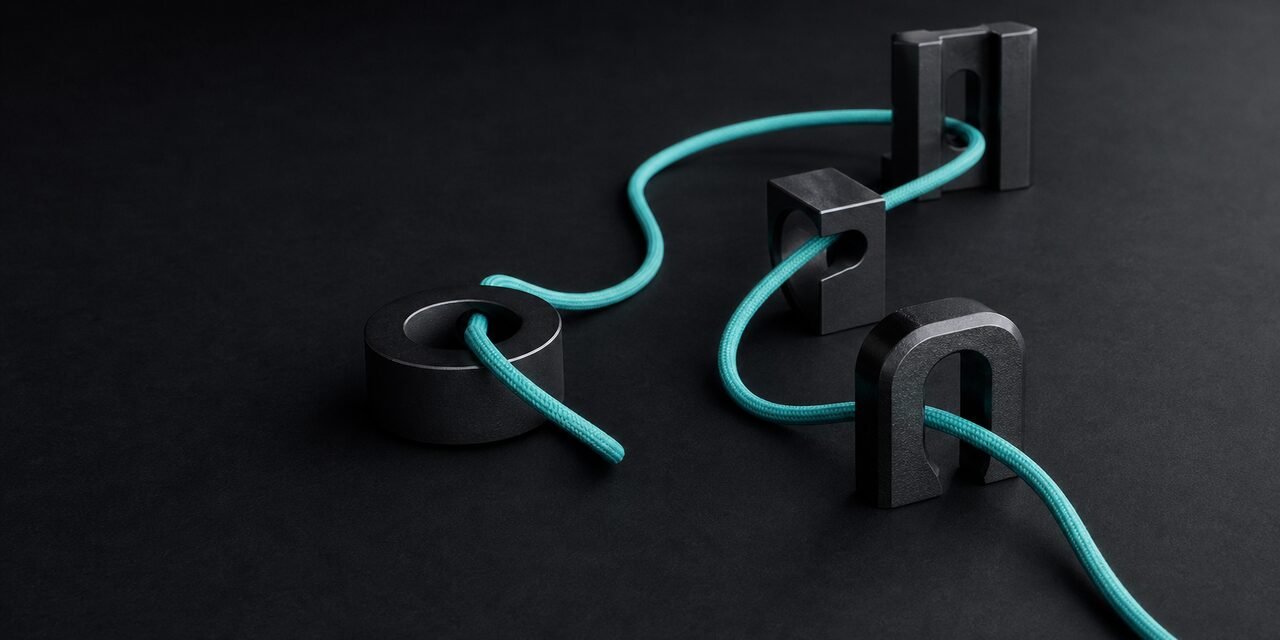
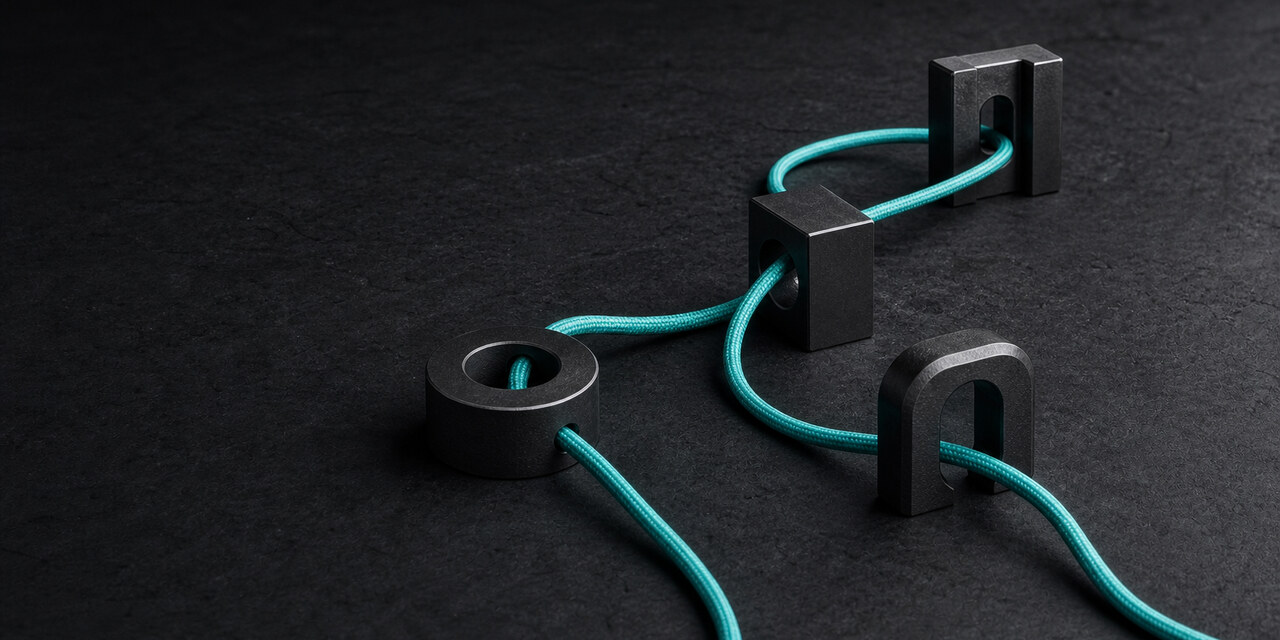
docs: refine grill-loop public surface (#1)

diff --git a/README.md b/README.md
@@ -1,9 +1,7 @@
-<p align="right">
-  <a href="./README.zh-CN.md"><img src="https://img.shields.io/badge/README-中文说明-5eead4?style=flat-square" alt="阅读中文说明"></a>
-</p>
+<p align="right"><a href="./README.zh-CN.md">中文说明</a></p>
 
 <p align="center">
-  <img src="./assets/grill-loop-social-preview.jpg" alt="A seafoam cord reroutes through independent graphite gates" width="100%">
+  <img src="./assets/grill-loop-hero.webp" alt="A seafoam cord finds its route through four independent graphite gates" width="100%">
 </p>
 
 <h1 align="center">grill-loop</h1>
@@ -11,23 +9,53 @@
 <p align="center"><strong>The loop follows the work.</strong></p>
 
 <p align="center">
-  An explicit Agent Skill that chooses the smallest useful capability,<br>
-  follows its own contract, then reassesses from what changed.
+  One explicit router. One useful capability at a time.<br>
+  Follow its contract, then choose again from what changed.
 </p>
 
 <p align="center">
-  <a href="#quickstart"><img src="https://img.shields.io/badge/skills.sh-nxxxsooo%2Fgrill--loop-111820" alt="Install with skills.sh"></a>
-  <a href="./LICENSE"><img src="https://img.shields.io/badge/license-MIT-5eead4" alt="MIT License"></a>
-  <a href="./README.zh-CN.md"><img src="https://img.shields.io/badge/README-中文说明-5eead4" alt="阅读中文说明"></a>
+  <a href="#install"><img src="https://img.shields.io/badge/install-skills.sh-111820?style=flat-square" alt="Install with skills.sh"></a>
+  <a href="https://github.com/nxxxsooo/grill-loop/releases"><img src="https://img.shields.io/github/v/release/nxxxsooo/grill-loop?style=flat-square&color=5eead4" alt="Latest release"></a>
+  <a href="./LICENSE"><img src="https://img.shields.io/badge/license-MIT-5eead4?style=flat-square" alt="MIT License"></a>
 </p>
 
-Real work rarely follows one perfect methodology. A vague idea may need one focused interview, a drafted plan may need adversarial review, a durable change may belong in OpenSpec, and a frontend artifact may need a taste pass.
+## Install
 
-**grill-loop connects those capabilities without turning them into another framework.** It looks at the current goal and artifacts, invokes only the smallest useful capability, carries forward the relevant context, and chooses again.
+```bash
+npx skills@latest add nxxxsooo/grill-loop
+```
 
-## The entire skill
+Then continue any task with:
 
-grill-loop is four paragraphs. This is the complete [`SKILL.md`](./SKILL.md) body you install:
+> Use $grill-loop to continue this task.
+
+grill-loop runs only when you name it. It does not auto-invoke or force every connected capability to run.
+
+## Why it exists
+
+Real work does not follow one fixed methodology. A missing product choice may need `grilling`; a formed plan may need `deep-grill`; a durable change may belong in OpenSpec; a frontend may need a taste pass.
+
+grill-loop owns only the routing decision. It selects the smallest useful next capability, follows that capability's own contract, carries forward the relevant context, then reassesses.
+
+## Route by where the answer lives
+
+| The current gap | Useful next move |
+|---|---|
+| Intent, priorities, risk tolerance, or taste exist only with the user | `grilling` |
+| A plan or decision needs autonomous investigation and adversarial review | `deep-grill` |
+| Work should enter durable exploration, specification, implementation, or archival | OpenSpec |
+| A frontend or brand surface needs visual direction or critique | `design-taste-frontend` |
+| Another specialist better fits the current move | That Skill or tool |
+
+These are options, not stages. Skip, repeat, reorder, return, or stop as the work changes.
+
+<p align="center">
+  <img src="./assets/grill-loop-detail.webp" alt="A seafoam braided cord passing through a precision-machined graphite gate" width="440">
+</p>
+
+## The complete contract
+
+The installed Skill is only four paragraphs. This excerpt is kept in exact sync with [`SKILL.md`](./SKILL.md):
 
 <!-- grill-loop-skill-body:start -->
 > # Grill Loop
@@ -41,85 +69,25 @@ grill-loop is four paragraphs. This is the complete [`SKILL.md`](./SKILL.md) bod
 > Preserve every capability's own scope, authority, and safety boundaries. Add no custom gates, hooks, background processes, or state files. Stop when the user's goal is met, a meaningful next move requires their input or authority, or further looping has diminishing returns.
 <!-- grill-loop-skill-body:end -->
 
-What each paragraph buys you:
-
-- **Pick one useful move.** Start from the current goal and artifact, not a fixed lifecycle.
-- **Route by where the answer lives.** User intent, autonomous review, durable specification, visual taste, or another specialist each keeps its own owner.
-- **Move freely.** Skip, repeat, reorder, or return without inventing a shared schema.
-- **Keep the loop light.** Preserve authority boundaries and stop when the work is done or no longer improving.
-
-## Quickstart
-
-1. Install the Skill:
-
-   ```bash
-   npx skills@latest add nxxxsooo/grill-loop
-   ```
-
-2. Continue an existing task or start with an idea.
-
-3. Say:
-
-   > Use $grill-loop to continue this task.
-
-> [!TIP]
-> grill-loop is explicit-only. Naming it selects the router; it does not force every capability to run.
-
-## Options, not stages
-
-<p align="center">
-  <img src="./assets/grill-loop-flow-square.png" alt="grill-loop chooses among capabilities and reassesses after each result" width="760">
-</p>
-
-| What the work needs now | Useful capability |
-| --- | --- |
-| A material answer exists only in the user's head | `grilling` |
-| A plan needs investigation and its strongest objection | `deep-grill` |
-| Work should become or update durable change artifacts | OpenSpec |
-| A frontend or brand surface needs visual direction or critique | `design-taste-frontend` |
-| Another specialist is a better next move | That Skill or tool |
-
-These are defaults, not a sequence. A real task may move from `deep-grill` to OpenSpec, then to taste, back to implementation, or stop after one useful answer.
-
-## How it moves
-
-```mermaid
-flowchart LR
-    A["Current goal and artifacts"] --> B["Choose the smallest useful capability"]
-    B --> C["grilling"]
-    B --> D["deep-grill"]
-    B --> E["OpenSpec"]
-    B --> F["taste or another specialist"]
-    C --> A
-    D --> A
-    E --> A
-    F --> A
-    A --> G["Goal met, user input needed, or diminishing returns"]
-```
-
-At every transition, grill-loop passes only the relevant goal, confirmed decisions, constraints, and artifact references. The selected capability keeps its own workflow and safety contract.
-
-## What it does not add
+## Boundaries
 
 - No mandatory order or lifecycle.
-- No shared output format or duplicated task list.
+- No shared output schema or duplicate task state.
 - No custom gates, hooks, background processes, or state files.
-- No authority beyond what the user granted and the selected capability permits.
+- No authority beyond the user's request and the selected capability's contract.
 - No automatic invocation.
 
 ## Update
 
-Installed copies do not follow GitHub commits or Releases automatically. Update a global installation with:
+Installed copies do not follow repository changes automatically:
 
 ```bash
 npx skills@latest update grill-loop -g -y
 ```
 
-Use `-p` instead of `-g` for a project-scoped installation. Here, `skills@latest` selects the npm-hosted installer version; the Skill content still comes from this GitHub repository.
+Use `-p` instead of `-g` for a project-scoped installation.
 
 ## Manual installation
-
-For a manual Claude Code installation:
 
 ```bash
 git clone https://github.com/nxxxsooo/grill-loop ~/.claude/skills/grill-loop

diff --git a/README.zh-CN.md b/README.zh-CN.md
@@ -1,9 +1,7 @@
-<p align="right">
-  <a href="./README.md"><img src="https://img.shields.io/badge/README-English-111820?style=flat-square" alt="Read in English"></a>
-</p>
+<p align="right"><a href="./README.md">English</a></p>
 
 <p align="center">
-  <img src="./assets/grill-loop-launch-cn-portrait.jpg" alt="一根青绿色绳索在独立的黑色门件之间自由改道" width="560">
+  <img src="./assets/grill-loop-hero.webp" alt="一根青绿色绳索在四个独立的石墨门件之间寻找路径" width="100%">
 </p>
 
 <h1 align="center">grill-loop</h1>
@@ -11,23 +9,53 @@
 <p align="center"><strong>让循环跟着工作走。</strong></p>
 
 <p align="center">
-  一个显式调用的 Agent Skill：每次只选择当前最有价值的能力，<br>
-  遵循它自己的契约，再根据新结果重新判断下一步。
+  一个显式路由器，每次只选一个有价值的能力。<br>
+  遵循它自己的契约，再根据变化重新选择。
 </p>
 
 <p align="center">
-  <a href="#快速开始"><img src="https://img.shields.io/badge/skills.sh-nxxxsooo%2Fgrill--loop-111820" alt="通过 skills.sh 安装"></a>
-  <a href="./LICENSE"><img src="https://img.shields.io/badge/license-MIT-5eead4" alt="MIT 许可证"></a>
-  <a href="./README.md"><img src="https://img.shields.io/badge/README-English-111820" alt="Read in English"></a>
+  <a href="#安装"><img src="https://img.shields.io/badge/安装-skills.sh-111820?style=flat-square" alt="通过 skills.sh 安装"></a>
+  <a href="https://github.com/nxxxsooo/grill-loop/releases"><img src="https://img.shields.io/github/v/release/nxxxsooo/grill-loop?style=flat-square&color=5eead4" alt="最新版本"></a>
+  <a href="./LICENSE"><img src="https://img.shields.io/badge/许可证-MIT-5eead4?style=flat-square" alt="MIT 许可证"></a>
 </p>
 
-真实工作很少沿着一套完美方法直线前进。模糊想法可能需要一次聚焦访谈，成形方案可能需要对抗审查，长期变更适合进入 OpenSpec，前端产物则可能需要 taste 复核。
+## 安装
 
-**grill-loop 只负责把这些能力接起来，不把它们变成另一套框架。** 它观察当前目标和产物，只调用最有价值的能力，传递必要上下文，再根据变化重新选择。
+```bash
+npx skills@latest add nxxxsooo/grill-loop
+```
 
-## 正文就这么长
+然后在任意任务中明确说：
 
-grill-loop 一共四段话。以下就是你要安装的完整 [`SKILL.md`](./SKILL.md) 正文：
+> 使用 $grill-loop 继续这个任务。
+
+grill-loop 只在被点名时运行。它不会自动触发，也不会强迫所有关联能力都执行。
+
+## 为什么需要它
+
+真实工作不会沿着一套固定方法前进。缺失的产品选择可能需要 `grilling`；成形方案可能需要 `deep-grill`；长期变更适合进入 OpenSpec；前端表面则可能需要 taste 复核。
+
+grill-loop 只拥有路由决定。它选择当前最小且有价值的能力，遵循该能力自己的契约，传递必要上下文，再重新判断下一步。
+
+## 按答案所在位置路由
+
+| 当前缺口 | 适合的下一步 |
+|---|---|
+| 意图、优先级、风险容忍或 taste 只存在于用户这里 | `grilling` |
+| 方案或决策需要自主调查和对抗审查 | `deep-grill` |
+| 工作应该进入长期探索、规格、实施或归档 | OpenSpec |
+| 前端或品牌表面需要视觉方向或批评 | `design-taste-frontend` |
+| 其他专家更适合当前动作 | 对应 Skill 或工具 |
+
+这些是选项，不是阶段。工作变化时，可以跳过、重复、重排、返回或停止。
+
+<p align="center">
+  <img src="./assets/grill-loop-detail.webp" alt="一根青绿色编织绳穿过精密加工的石墨门件" width="440">
+</p>
+
+## 完整契约
+
+安装后的 Skill 只有四段话。以下内容与 [`SKILL.md`](./SKILL.md) 保持逐字同步：
 
 <!-- grill-loop-skill-body:start -->
 > # Grill Loop
@@ -41,85 +69,25 @@ grill-loop 一共四段话。以下就是你要安装的完整 [`SKILL.md`](./SK
 > Preserve every capability's own scope, authority, and safety boundaries. Add no custom gates, hooks, background processes, or state files. Stop when the user's goal is met, a meaningful next move requires their input or authority, or further looping has diminishing returns.
 <!-- grill-loop-skill-body:end -->
 
-四段各自负责：
-
-- **只选一个有价值的动作。** 从当前目标和产物出发，而不是套固定生命周期。
-- **按答案所在位置路由。** 用户意图、自主审查、长期规格、视觉品味或其他专家能力，各自保留原本的所有者。
-- **自由流动。** 可以跳过、重复、重排或返回，不发明统一格式。
-- **保持轻量。** 尊重授权边界，在目标达成或继续循环已无收益时停止。
-
-## 快速开始
-
-1. 安装 Skill：
-
-   ```bash
-   npx skills@latest add nxxxsooo/grill-loop
-   ```
-
-2. 继续现有任务，或从一个想法开始。
-
-3. 说：
-
-   > 使用 $grill-loop 继续这个任务。
-
-> [!TIP]
-> grill-loop 只在显式点名时触发。点名它只是选择路由器，不代表每项能力都必须运行。
-
-## 是选项，不是阶段
-
-<p align="center">
-  <img src="./assets/grill-loop-flow-cn-square.png" alt="grill-loop 在不同能力之间选择，并在每次结果后重新判断" width="760">
-</p>
-
-| 当前工作需要什么 | 适合的能力 |
-| --- | --- |
-| 重要答案只存在于用户脑中 | `grilling` |
-| 方案需要调查和最强反驳 | `deep-grill` |
-| 工作需要进入或更新长期变更材料 | OpenSpec |
-| 前端或品牌表面需要视觉方向或复核 | `design-taste-frontend` |
-| 其他专家能力更适合下一步 | 对应 Skill 或工具 |
-
-这些只是默认选择，不是固定顺序。真实任务可以从 `deep-grill` 进入 OpenSpec，再切到 taste，回到实现；也可以只得到一个有用答案就停止。
-
-## 如何流动
-
-```mermaid
-flowchart LR
-    A["当前目标与产物"] --> B["选择最小且有价值的能力"]
-    B --> C["grilling"]
-    B --> D["deep-grill"]
-    B --> E["OpenSpec"]
-    B --> F["taste 或其他专家"]
-    C --> A
-    D --> A
-    E --> A
-    F --> A
-    A --> G["目标达成、需要用户输入，或边际收益耗尽"]
-```
-
-每次切换时，grill-loop 只传递下一项能力真正需要的目标、已确认决策、约束和产物引用。被选中的能力继续遵守自己的工作流和安全契约。
-
-## 它不会增加什么
+## 边界
 
 - 不增加强制顺序或生命周期。
-- 不增加统一输出格式或重复任务清单。
+- 不增加统一输出格式或重复任务状态。
 - 不增加自定义门禁、hook、后台进程或状态文件。
-- 不扩大用户授权，也不绕过被选能力的边界。
+- 不扩大用户授权，也不绕过被选能力的契约。
 - 不自动触发。
 
 ## 更新
 
-已安装副本不会自动跟随 GitHub commit 或 Release。更新全局安装：
+已安装副本不会自动跟随仓库变化：
 
 ```bash
 npx skills@latest update grill-loop -g -y
 ```
 
-项目级安装把 `-g` 换成 `-p`。这里的 `skills@latest` 选择 npm 上的安装器版本；Skill 内容仍来自本 GitHub 仓库。
+项目级安装把 `-g` 换成 `-p`。
 
 ## 手动安装
-
-Claude Code 可手动安装：
 
 ```bash
 git clone https://github.com/nxxxsooo/grill-loop ~/.claude/skills/grill-loop
